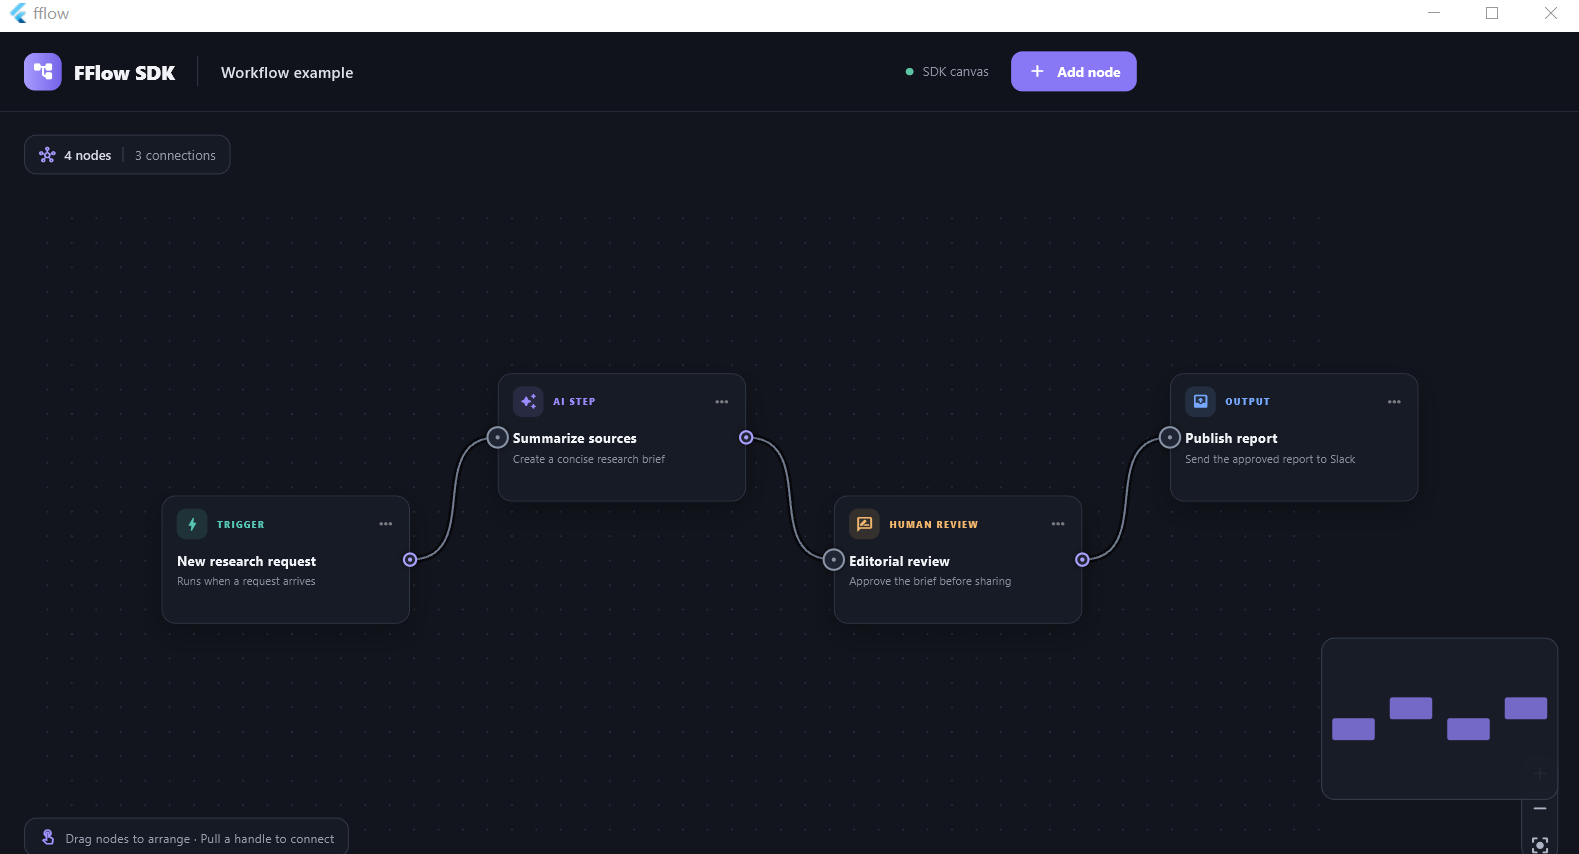
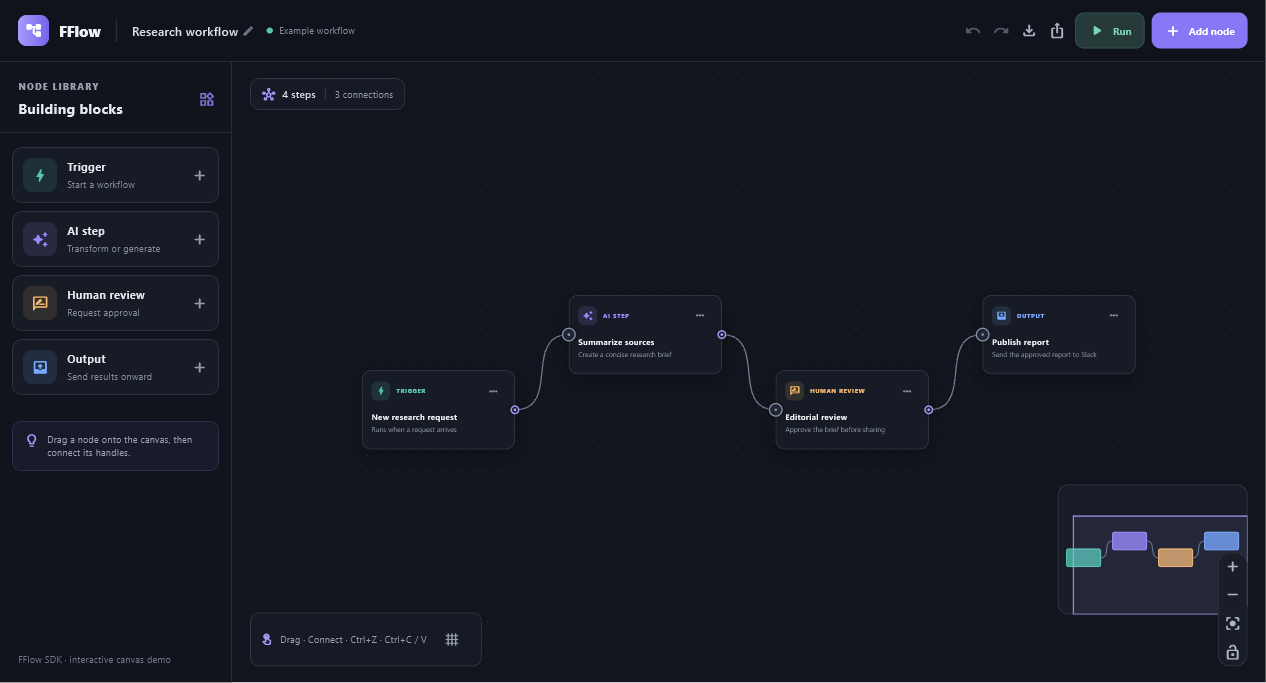
docs: refresh README overview and screenshot

diff --git a/README.md b/README.md
@@ -1,8 +1,18 @@
 # FFlow
 
-FFlow is a reusable Flutter SDK for building interactive node and edge editors. The root package contains the public API and canvas implementation. The runnable workflow editor is an example app under [`example/`](example/).
+FFlow is a Flutter SDK for building interactive, node-based editors. Use it to create workflow builders, visual automation tools, data pipelines, state machines, and other graph interfaces that fit the rest of your Flutter app.
+
+The SDK provides the graph canvas, node and edge models, editing interactions, viewport navigation, and reusable controls. Your app defines the node data and UI, applies domain-specific validation, and decides what running a workflow means. Keep graph state in your own widgets with change callbacks, or use `FlowGraphController` when you want observable graph state and indexed queries. FFlow is Flutter-native and has no third-party runtime dependencies.
+
+This repository contains the SDK package at its root and a runnable workflow editor in [`example/`](example/). The example demonstrates a four-step research workflow, with a node library, draggable canvas, connectable handles, overview minimap, and editor actions.
 
 ![FFlow workflow editor example](doc/images/fflow-workflow-editor.png)
+
+*The example editor shows a trigger, AI step, human review, and output connected on a navigable canvas.*
+
+## How FFlow fits into an app
+
+FFlow handles the graph-editing surface while your app owns the meaning of the graph. A typical integration defines typed data for each node, maps that data to custom Flutter widgets, and then updates graph state in response to canvas changes. You can keep state in your widget tree with controlled `nodes` and `edges`, or move it into `FlowGraphController`. Add history, clipboard, snapshots, layouts, or routing as your editor needs them.
 
 ## Add FFlow to an app
 
@@ -20,7 +30,7 @@ Then import the public library:
 import 'package:fflow/fflow.dart';
 ```
 
-Create typed node data in your application and provide a builder for each node:
+Create typed node data in your application and provide a builder for each node. The canvas reports graph changes through callbacks, so the host app remains responsible for storing the updated state:
 
 ```dart
 FFlowCanvas<MyNodeData>(
